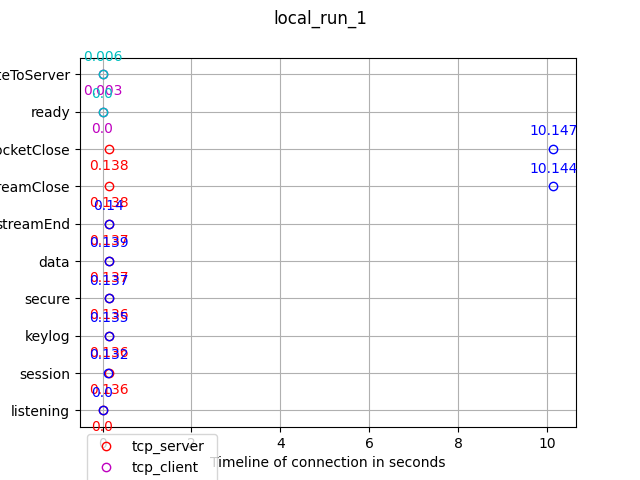
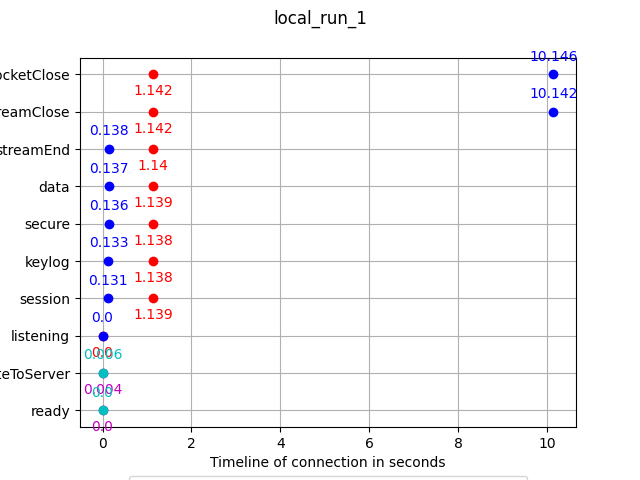
Added graphics for all currently available runs. (1st png is too small, is a little bug, will be fixed.)

diff --git a/visualize-events/visualize_events.py b/visualize-events/visualize_events.py
@@ -199,7 +199,7 @@ if __name__ == '__main__':
         # init figure
         fig = plt.figure()
         # set title of figure to location(network/local) + testrun number
-        fig_title = list_runs_selected_location[0][0]['location'] + "_run_" + str(run_nr_index)
+        fig_title = list_runs_selected_location[0][0]['location'] + "_run_" + str(run_nr_index + 1)
         fig.suptitle(fig_title)
         ax = fig.add_subplot(111)
 
@@ -271,6 +271,6 @@ if __name__ == '__main__':
         # Legend on the right:
         # plt.legend(bbox_to_anchor=(1.135, 0.5), loc="center right")
 
-        plt.show()
-        quit()
-        #fig.savefig('figures/' + fig_title + '.png')
+        # plt.show()
+
+        fig.savefig('figures/' + fig_title + '.png')
